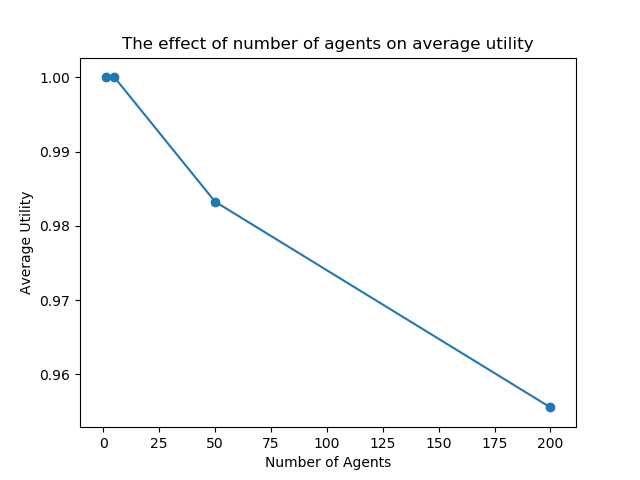
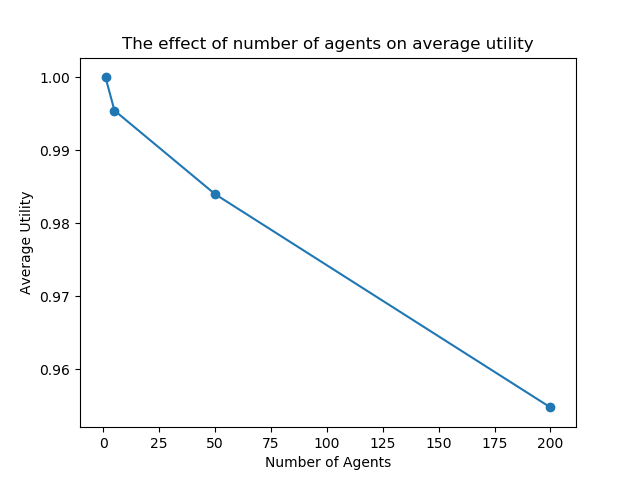
changed density denominator

diff --git a/Python/Ali/Ali_Astar/blocks.py b/Python/Ali/Ali_Astar/blocks.py
@@ -65,18 +65,18 @@ def create_POI(self,location_list,moore_range):
 block_positions = []
 
 block_list =[\
+]
 
-
-[(20 + i, 5) for i in range(15)],
-[(20, 11), (20, 12), (20, 13), (20, 14)],
-[(20 + i, 20) for i in range(10)],
-[(20, 41), (20, 42), (20, 43), (20, 44)],
-[(25, 20 + i) for i in range(10)],
-[(25, 10 + i) for i in range(10)],
-[(10, 0 + i) for i in range(10)],
-[(0 + i, 30) for i in range(10)],
- [(2 + i, 36) for i in range(30)],
- [(2+i, 34) for i in range(48)]]
+# [(20 + i, 5) for i in range(15)],
+# [(20, 11), (20, 12), (20, 13), (20, 14)],
+# [(20 + i, 20) for i in range(10)],
+# [(20, 41), (20, 42), (20, 43), (20, 44)],
+# [(25, 20 + i) for i in range(10)],
+# [(25, 10 + i) for i in range(10)],
+# [(10, 0 + i) for i in range(10)],
+# [(0 + i, 30) for i in range(10)],
+ #[(2 + i, 36) for i in range(30)],
+ #[(2+i, 34) for i in range(48)]]
 
 
 

diff --git a/Python/Ali/Ali_Astar/agents.py b/Python/Ali/Ali_Astar/agents.py
@@ -51,7 +51,7 @@ class commuterAgent(Agent):
             position = cost_pos_list[k][1]
             density = get_commuters_density(self, self.vision_range, position)
             cost_pos_list[k] = (cost_pos_list[k][0] +\
-             (self.density_coefficent * density / self.model.num_agents), cost_pos_list[k][1])
+             (self.density_coefficent * density / math.pow( 2 * self.vision_range + 1,2))  , cost_pos_list[k][1])
 
         neighbor_list = self.model.grid.get_neighbors(self.pos, True, False, 1)
 

diff --git a/Python/Ali/Ali_Astar/model.py b/Python/Ali/Ali_Astar/model.py
@@ -18,7 +18,7 @@ class Model(Model):
     '''
     ClubLife, an agent-based-model to simulate club related behaviour.
     '''
-    def __init__(self, N, width, height,distance_coefficent= 1 ,density_coefficent=2,density_vision=3):
+    def __init__(self, N, width, height,distance_coefficent= 1 ,density_coefficent=1000 ,density_vision=5):
         super().__init__()
 
         self.max_Astar = 0
